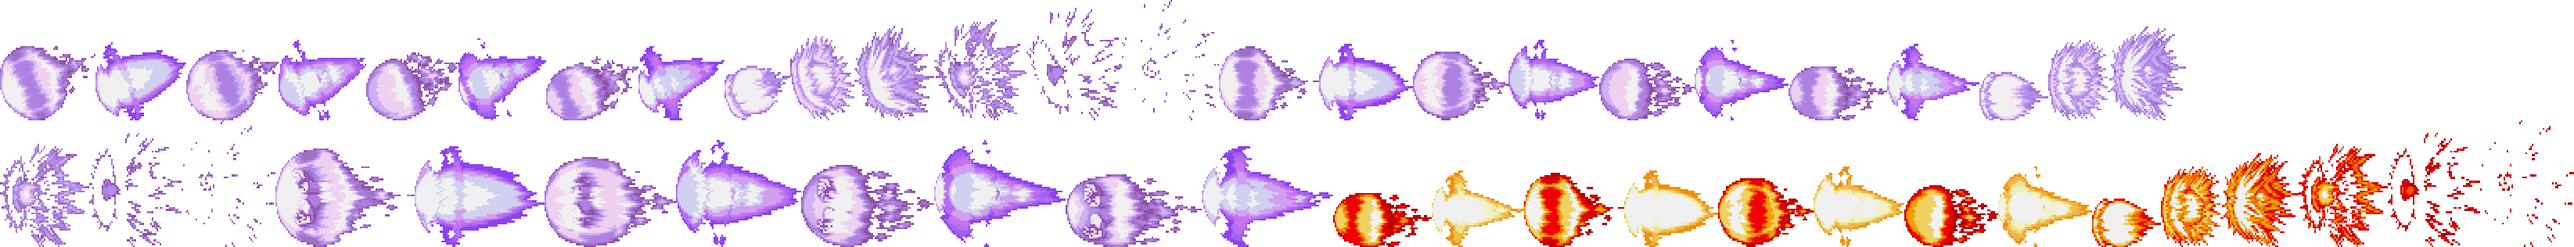
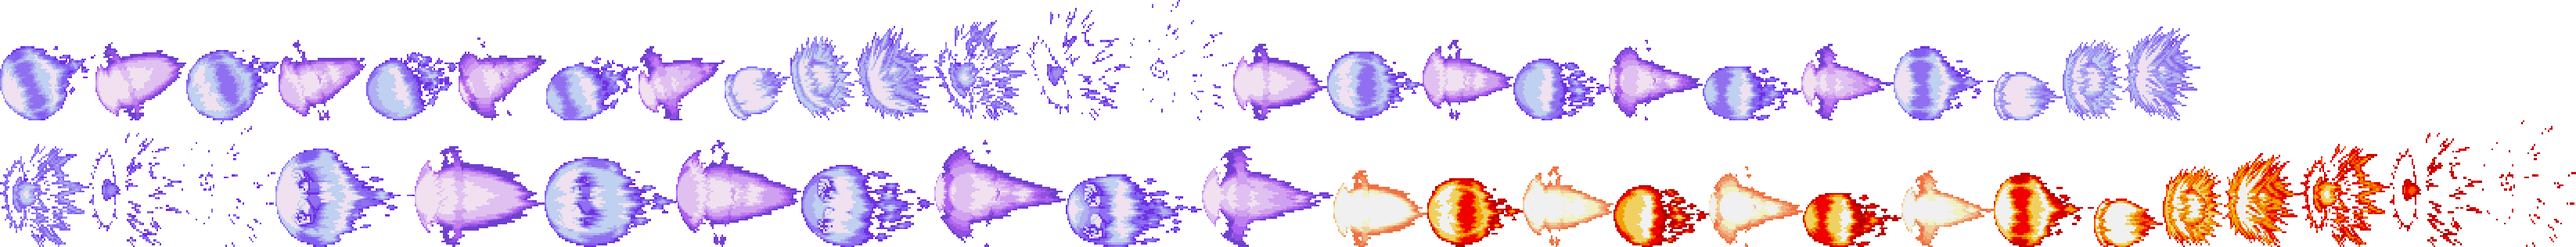
bug fixes

Changed region(s): [[0.0, 0.5981, 0.9301, 1.0], [0.0, 0.057, 0.8681, 0.4842]]

diff --git a/script/player-akuma2-spritedata.js b/script/player-akuma2-spritedata.js
@@ -6,26 +6,26 @@ Createakuma2SpriteData = function(player)
     spriteLookup_.load("images/misc/akuma2/r-afb-projectile-3.png","images/misc/akuma2/projectiles.png", "-238px", "-64px", "118px", "90px");
     spriteLookup_.load("images/misc/akuma2/r-afb-projectile-4.png","images/misc/akuma2/projectiles.png", "-356px", "-51px", "112px", "103px");
     spriteLookup_.load("images/misc/akuma2/r-afb-projectile-5.png","images/misc/akuma2/projectiles.png", "-468px", "-67px", "118px", "87px");
-    spriteLookup_.load("images/misc/akuma2/r-afb-projectile-6.png","images/misc/akuma2/projectiles.png", "-586px", "-49px", "112px", "105px");
+    spriteLookup_.load("images/misc/akuma2/r-afb-projectile-6.png","images/misc/akuma2/projectiles.png", "-586px", "-48px", "112px", "106px");
     spriteLookup_.load("images/misc/akuma2/r-afb-projectile-7.png","images/misc/akuma2/projectiles.png", "-698px", "-72px", "118px", "82px");
     spriteLookup_.load("images/misc/akuma2/r-afb-projectile-8.png","images/misc/akuma2/projectiles.png", "-816px", "-59px", "110px", "95px");
-    spriteLookup_.load("images/misc/akuma2/r-afb-projectile-hit-0.png","images/misc/akuma2/projectiles.png", "-926px", "-84px", "84px", "70px");
+    spriteLookup_.load("images/misc/akuma2/r-afb-projectile-hit-0.png","images/misc/akuma2/projectiles.png", "-926px", "-85px", "84px", "69px");
     spriteLookup_.load("images/misc/akuma2/r-afb-projectile-hit-1.png","images/misc/akuma2/projectiles.png", "-1010px", "-46px", "82px", "108px");
     spriteLookup_.load("images/misc/akuma2/r-afb-projectile-hit-2.png","images/misc/akuma2/projectiles.png", "-1092px", "-33px", "102px", "121px");
-    spriteLookup_.load("images/misc/akuma2/r-afb-projectile-hit-3.png","images/misc/akuma2/projectiles.png", "-1194px", "-25px", "118px", "129px");
-    spriteLookup_.load("images/misc/akuma2/r-afb-projectile-hit-4.png","images/misc/akuma2/projectiles.png", "-1312px", "-10px", "122px", "144px");
-    spriteLookup_.load("images/misc/akuma2/r-afb-projectile-hit-5.png","images/misc/akuma2/projectiles.png", "-1434px", "0px", "124px", "154px");
-    spriteLookup_.load("images/misc/akuma2/r-fb-projectile-1.png","images/misc/akuma2/projectiles.png", "-1558px", "-59px", "128px", "95px");
-    spriteLookup_.load("images/misc/akuma2/r-fb-projectile-2.png","images/misc/akuma2/projectiles.png", "-1686px", "-56px", "120px", "98px");
-    spriteLookup_.load("images/misc/akuma2/r-fb-projectile-3.png","images/misc/akuma2/projectiles.png", "-1806px", "-66px", "122px", "88px");
-    spriteLookup_.load("images/misc/akuma2/r-fb-projectile-4.png","images/misc/akuma2/projectiles.png", "-1928px", "-51px", "116px", "103px");
-    spriteLookup_.load("images/misc/akuma2/r-fb-projectile-5.png","images/misc/akuma2/projectiles.png", "-2044px", "-75px", "122px", "79px");
-    spriteLookup_.load("images/misc/akuma2/r-fb-projectile-6.png","images/misc/akuma2/projectiles.png", "-2166px", "-51px", "120px", "103px");
-    spriteLookup_.load("images/misc/akuma2/r-fb-projectile-7.png","images/misc/akuma2/projectiles.png", "-2286px", "-85px", "126px", "69px");
-    spriteLookup_.load("images/misc/akuma2/r-fb-projectile-8.png","images/misc/akuma2/projectiles.png", "-2412px", "-56px", "118px", "98px");
-    spriteLookup_.load("images/misc/akuma2/r-fb-projectile-hit-0.png","images/misc/akuma2/projectiles.png", "-2530px", "-92px", "88px", "62px");
-    spriteLookup_.load("images/misc/akuma2/r-fb-projectile-hit-1.png","images/misc/akuma2/projectiles.png", "-2618px", "-51px", "76px", "103px");
-    spriteLookup_.load("images/misc/akuma2/r-fb-projectile-hit-2.png","images/misc/akuma2/projectiles.png", "-2694px", "-34px", "100px", "120px");
+    spriteLookup_.load("images/misc/akuma2/r-afb-projectile-hit-3.png","images/misc/akuma2/projectiles.png", "-1194px", "-26px", "118px", "128px");
+    spriteLookup_.load("images/misc/akuma2/r-afb-projectile-hit-4.png","images/misc/akuma2/projectiles.png", "-1312px", "-10px", "132px", "144px");
+    spriteLookup_.load("images/misc/akuma2/r-afb-projectile-hit-5.png","images/misc/akuma2/projectiles.png", "-1444px", "0px", "132px", "154px");
+    spriteLookup_.load("images/misc/akuma2/r-fb-projectile-1.png","images/misc/akuma2/projectiles.png", "-1576px", "-56px", "120px", "98px");
+    spriteLookup_.load("images/misc/akuma2/r-fb-projectile-2.png","images/misc/akuma2/projectiles.png", "-1696px", "-66px", "122px", "88px");
+    spriteLookup_.load("images/misc/akuma2/r-fb-projectile-3.png","images/misc/akuma2/projectiles.png", "-1818px", "-51px", "116px", "103px");
+    spriteLookup_.load("images/misc/akuma2/r-fb-projectile-4.png","images/misc/akuma2/projectiles.png", "-1934px", "-75px", "122px", "79px");
+    spriteLookup_.load("images/misc/akuma2/r-fb-projectile-5.png","images/misc/akuma2/projectiles.png", "-2056px", "-51px", "120px", "103px");
+    spriteLookup_.load("images/misc/akuma2/r-fb-projectile-6.png","images/misc/akuma2/projectiles.png", "-2176px", "-85px", "126px", "69px");
+    spriteLookup_.load("images/misc/akuma2/r-fb-projectile-7.png","images/misc/akuma2/projectiles.png", "-2302px", "-56px", "118px", "98px");
+    spriteLookup_.load("images/misc/akuma2/r-fb-projectile-8.png","images/misc/akuma2/projectiles.png", "-2420px", "-59px", "128px", "95px");
+    spriteLookup_.load("images/misc/akuma2/r-fb-projectile-hit-0.png","images/misc/akuma2/projectiles.png", "-2548px", "-92px", "88px", "62px");
+    spriteLookup_.load("images/misc/akuma2/r-fb-projectile-hit-1.png","images/misc/akuma2/projectiles.png", "-2636px", "-51px", "76px", "103px");
+    spriteLookup_.load("images/misc/akuma2/r-fb-projectile-hit-2.png","images/misc/akuma2/projectiles.png", "-2712px", "-34px", "100px", "120px");
     spriteLookup_.load("images/misc/akuma2/r-fb-projectile-hit-3.png","images/misc/akuma2/projectiles.png", "0px", "-184px", "114px", "132px");
     spriteLookup_.load("images/misc/akuma2/r-fb-projectile-hit-4.png","images/misc/akuma2/projectiles.png", "-114px", "-170px", "118px", "146px");
     spriteLookup_.load("images/misc/akuma2/r-fb-projectile-hit-5.png","images/misc/akuma2/projectiles.png", "-232px", "-154px", "120px", "162px");
@@ -37,20 +37,20 @@ Createakuma2SpriteData = function(player)
     spriteLookup_.load("images/misc/akuma2/r-fb-projectiles-super-6.png","images/misc/akuma2/projectiles.png", "-1194px", "-179px", "168px", "137px");
     spriteLookup_.load("images/misc/akuma2/r-fb-projectiles-super-7.png","images/misc/akuma2/projectiles.png", "-1362px", "-223px", "174px", "93px");
     spriteLookup_.load("images/misc/akuma2/r-fb-projectiles-super-8.png","images/misc/akuma2/projectiles.png", "-1536px", "-187px", "168px", "129px");
-    spriteLookup_.load("images/misc/akuma2/r-rfb-projectile-1.png","images/misc/akuma2/projectiles.png", "-1704px", "-247px", "126px", "69px");
-    spriteLookup_.load("images/misc/akuma2/r-rfb-projectile-2.png","images/misc/akuma2/projectiles.png", "-1830px", "-218px", "118px", "98px");
-    spriteLookup_.load("images/misc/akuma2/r-rfb-projectile-3.png","images/misc/akuma2/projectiles.png", "-1948px", "-221px", "128px", "95px");
-    spriteLookup_.load("images/misc/akuma2/r-rfb-projectile-4.png","images/misc/akuma2/projectiles.png", "-2076px", "-218px", "120px", "98px");
-    spriteLookup_.load("images/misc/akuma2/r-rfb-projectile-5.png","images/misc/akuma2/projectiles.png", "-2196px", "-228px", "122px", "88px");
-    spriteLookup_.load("images/misc/akuma2/r-rfb-projectile-6.png","images/misc/akuma2/projectiles.png", "-2318px", "-213px", "116px", "103px");
-    spriteLookup_.load("images/misc/akuma2/r-rfb-projectile-7.png","images/misc/akuma2/projectiles.png", "-2434px", "-237px", "120px", "79px");
-    spriteLookup_.load("images/misc/akuma2/r-rfb-projectile-8.png","images/misc/akuma2/projectiles.png", "-2554px", "-213px", "120px", "103px");
-    spriteLookup_.load("images/misc/akuma2/r-rfb-projectile-hit-0.png","images/misc/akuma2/projectiles.png", "-2674px", "-254px", "88px", "62px");
-    spriteLookup_.load("images/misc/akuma2/r-rfb-projectile-hit-1.png","images/misc/akuma2/projectiles.png", "-2762px", "-213px", "76px", "103px");
-    spriteLookup_.load("images/misc/akuma2/r-rfb-projectile-hit-2.png","images/misc/akuma2/projectiles.png", "-2838px", "-196px", "100px", "120px");
-    spriteLookup_.load("images/misc/akuma2/r-rfb-projectile-hit-3.png","images/misc/akuma2/projectiles.png", "-2938px", "-184px", "114px", "132px");
-    spriteLookup_.load("images/misc/akuma2/r-rfb-projectile-hit-4.png","images/misc/akuma2/projectiles.png", "-3052px", "-170px", "118px", "146px");
-    spriteLookup_.load("images/misc/akuma2/r-rfb-projectile-hit-5.png","images/misc/akuma2/projectiles.png", "-3170px", "-154px", "120px", "162px");
+    spriteLookup_.load("images/misc/akuma2/r-rfb-projectile-1.png","images/misc/akuma2/projectiles.png", "-1704px", "-218px", "120px", "98px");
+    spriteLookup_.load("images/misc/akuma2/r-rfb-projectile-2.png","images/misc/akuma2/projectiles.png", "-1824px", "-228px", "122px", "88px");
+    spriteLookup_.load("images/misc/akuma2/r-rfb-projectile-3.png","images/misc/akuma2/projectiles.png", "-1946px", "-213px", "116px", "103px");
+    spriteLookup_.load("images/misc/akuma2/r-rfb-projectile-4.png","images/misc/akuma2/projectiles.png", "-2062px", "-237px", "122px", "79px");
+    spriteLookup_.load("images/misc/akuma2/r-rfb-projectile-5.png","images/misc/akuma2/projectiles.png", "-2184px", "-213px", "120px", "103px");
+    spriteLookup_.load("images/misc/akuma2/r-rfb-projectile-6.png","images/misc/akuma2/projectiles.png", "-2304px", "-247px", "126px", "69px");
+    spriteLookup_.load("images/misc/akuma2/r-rfb-projectile-7.png","images/misc/akuma2/projectiles.png", "-2430px", "-218px", "118px", "98px");
+    spriteLookup_.load("images/misc/akuma2/r-rfb-projectile-8.png","images/misc/akuma2/projectiles.png", "-2548px", "-221px", "128px", "95px");
+    spriteLookup_.load("images/misc/akuma2/r-rfb-projectile-hit-0.png","images/misc/akuma2/projectiles.png", "-2676px", "-254px", "88px", "62px");
+    spriteLookup_.load("images/misc/akuma2/r-rfb-projectile-hit-1.png","images/misc/akuma2/projectiles.png", "-2764px", "-213px", "76px", "103px");
+    spriteLookup_.load("images/misc/akuma2/r-rfb-projectile-hit-2.png","images/misc/akuma2/projectiles.png", "-2840px", "-196px", "100px", "120px");
+    spriteLookup_.load("images/misc/akuma2/r-rfb-projectile-hit-3.png","images/misc/akuma2/projectiles.png", "-2940px", "-184px", "114px", "132px");
+    spriteLookup_.load("images/misc/akuma2/r-rfb-projectile-hit-4.png","images/misc/akuma2/projectiles.png", "-3054px", "-170px", "118px", "146px");
+    spriteLookup_.load("images/misc/akuma2/r-rfb-projectile-hit-5.png","images/misc/akuma2/projectiles.png", "-3172px", "-154px", "120px", "162px");
 
     spriteLookup_.load("images/misc/akuma2/air-block-0.png","images/misc/akuma2/sprites.png", "0px", "-134px", "120px", "192px");
     spriteLookup_.load("images/misc/akuma2/air-block-1.png","images/misc/akuma2/sprites.png", "-120px", "-64px", "124px", "262px");

diff --git a/script/match.js b/script/match.js
@@ -491,9 +491,9 @@ var CreateMatch = function(team1,team2,stage)
 
         /*set the starting locations for each player*/
         for(var i = 1, length = teamA_.getPlayers().length; i < length; ++i)
-            teamA_.getPlayer(i).setX(STAGE.START_X + (STAGE.START_X_OFFSET * i));
+            teamA_.getPlayer(i).setX(STAGE.START_X - (STAGE.START_X_OFFSET * i));
         for(var i = 1, length = teamB_.getPlayers().length; i < length; ++i)
-            teamB_.getPlayer(i).setX(STAGE.START_X + (STAGE.START_X_OFFSET * i));
+            teamB_.getPlayer(i).setX(STAGE.START_X - (STAGE.START_X_OFFSET * i));
 
         stage_.init();
         teamA_.init();

diff --git a/script/player.combat.js b/script/player.combat.js
@@ -401,7 +401,7 @@ Player.prototype.canBeGrappled = function(x,y,distance,airborneFlags,isAirborne,
 /*Forced computation on the player who is being thrown by this player*/
 Player.prototype.handleGrapple = function(forcedFrameIndex,frame,stageX,stageY)
 {
-    if(!!this.GrappledPlayer.CurrentAnimation.Animation && !!this.GrappledPlayer.isBeingGrappled())
+    if(!!this.GrappledPlayer && !!this.GrappledPlayer.CurrentAnimation.Animation && !!this.GrappledPlayer.isBeingGrappled())
     {
         var forcedFrame = this.GrappledPlayer.CurrentAnimation.Animation.BaseAnimation.Frames[forcedFrameIndex];
         if(!!forcedFrame)

diff --git a/script/misc.js b/script/misc.js
@@ -178,8 +178,9 @@ function Test()
     user1_.setChar(CHARACTERS.AKUMA);
     user2_.setChar(CHARACTERS.RYU);
     user3_.setChar(CHARACTERS.KEN);
+    user4_.setChar(CHARACTERS.SAGAT);
 
-    game_.startMatch(false,[0],[1,2], stages_["ryu"]);
+    game_.startMatch(false,[0,1],[2,3], stages_["ryu"]);
 }
 
 //Goes to the character selection screen
